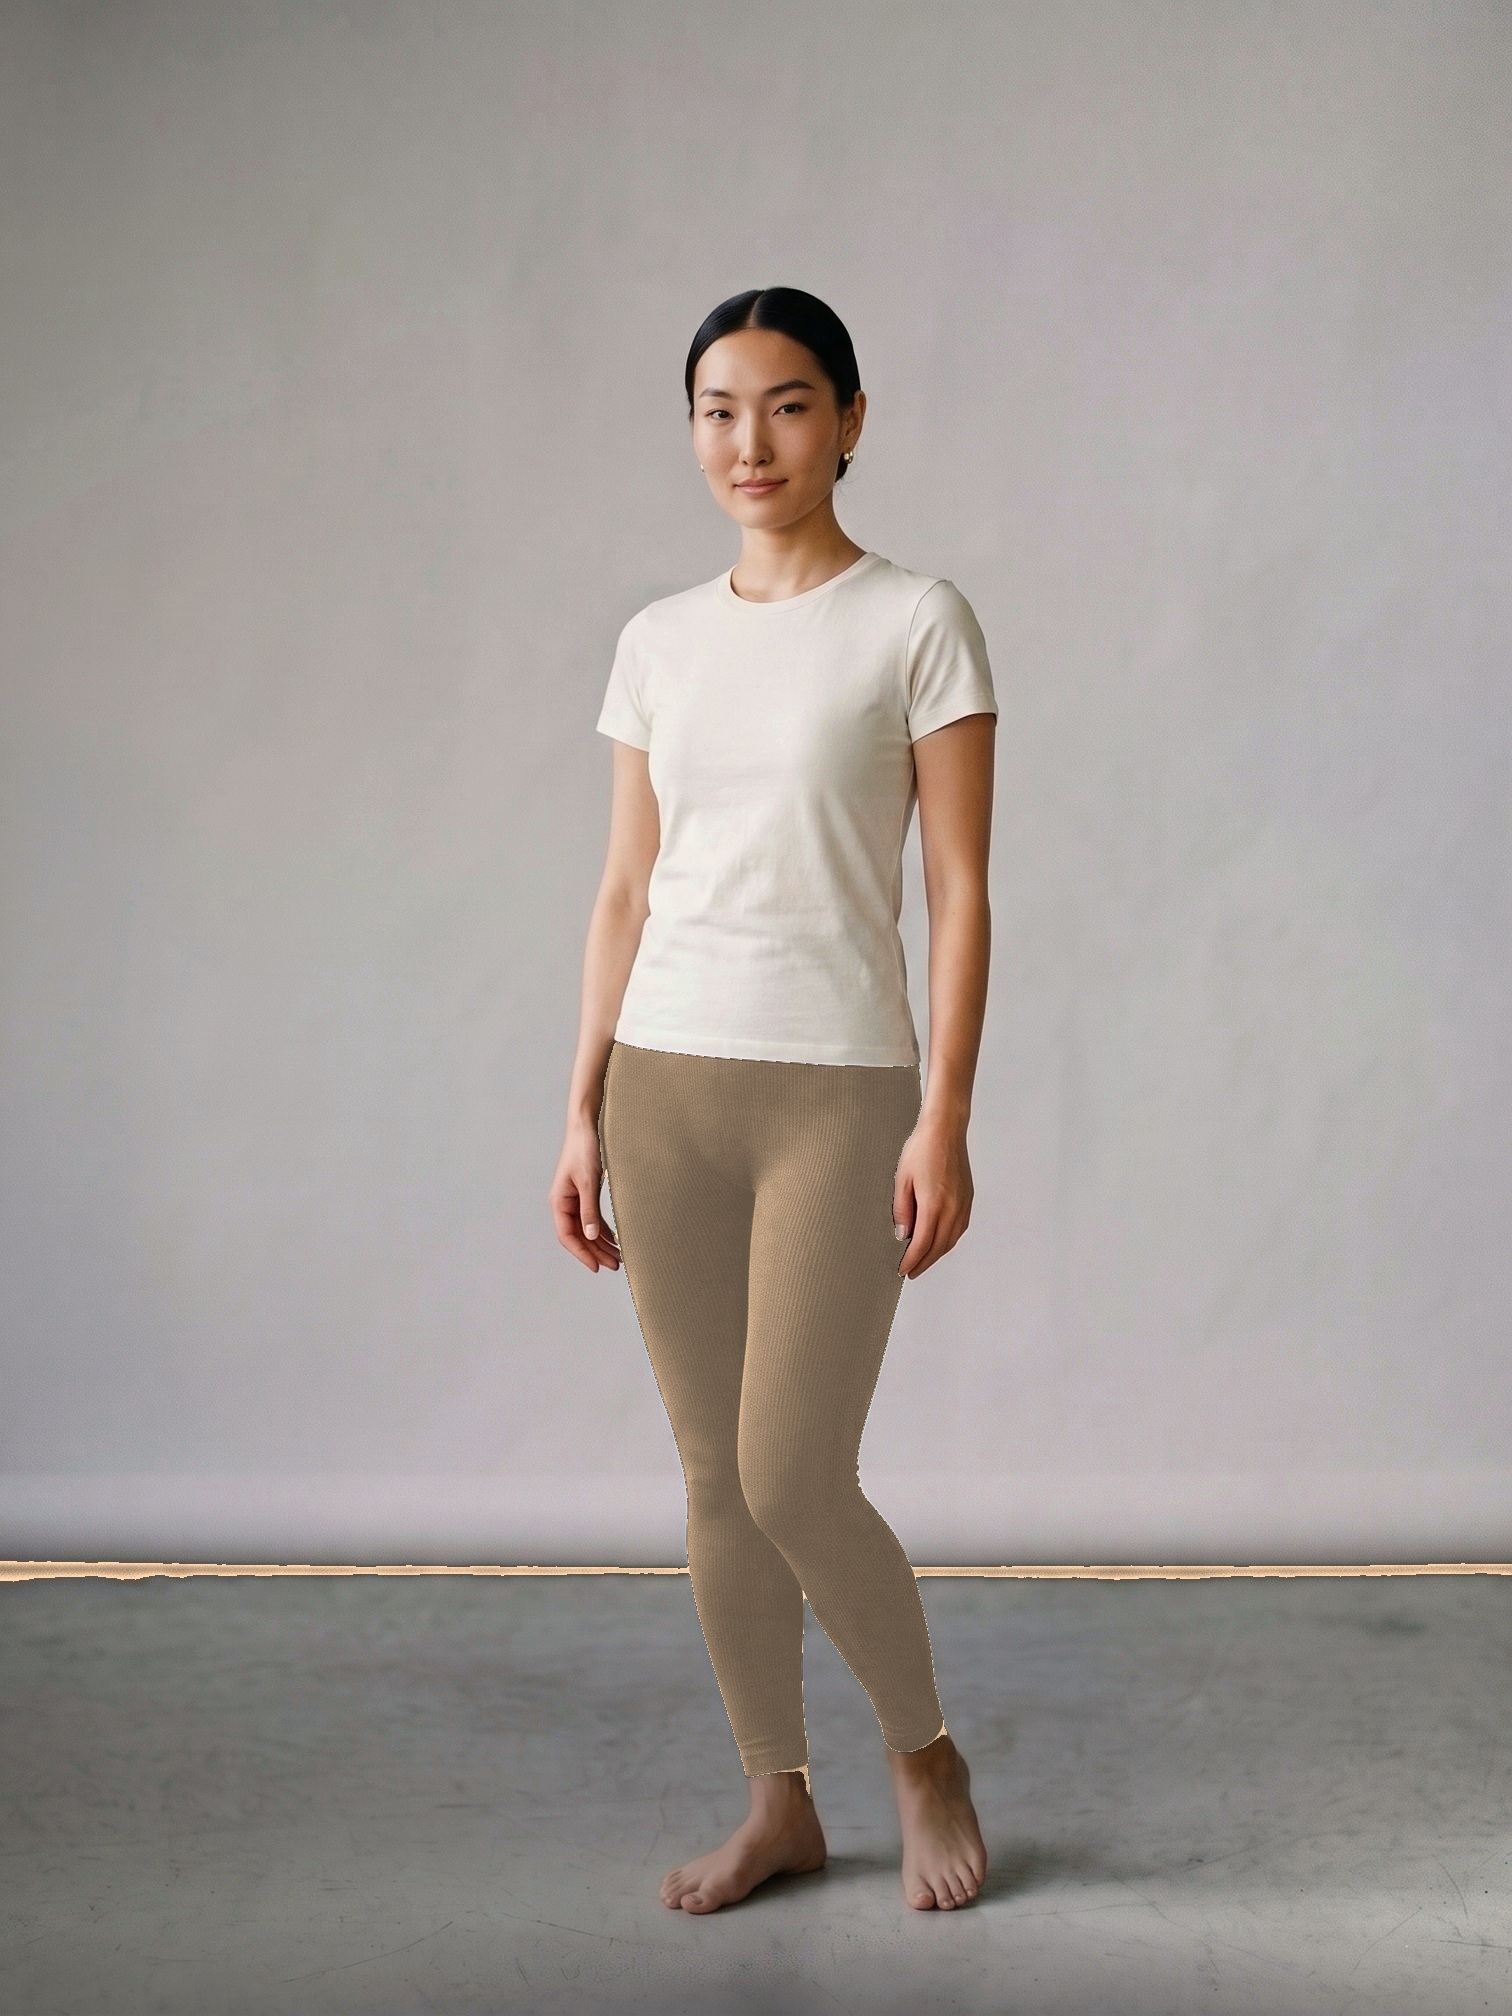
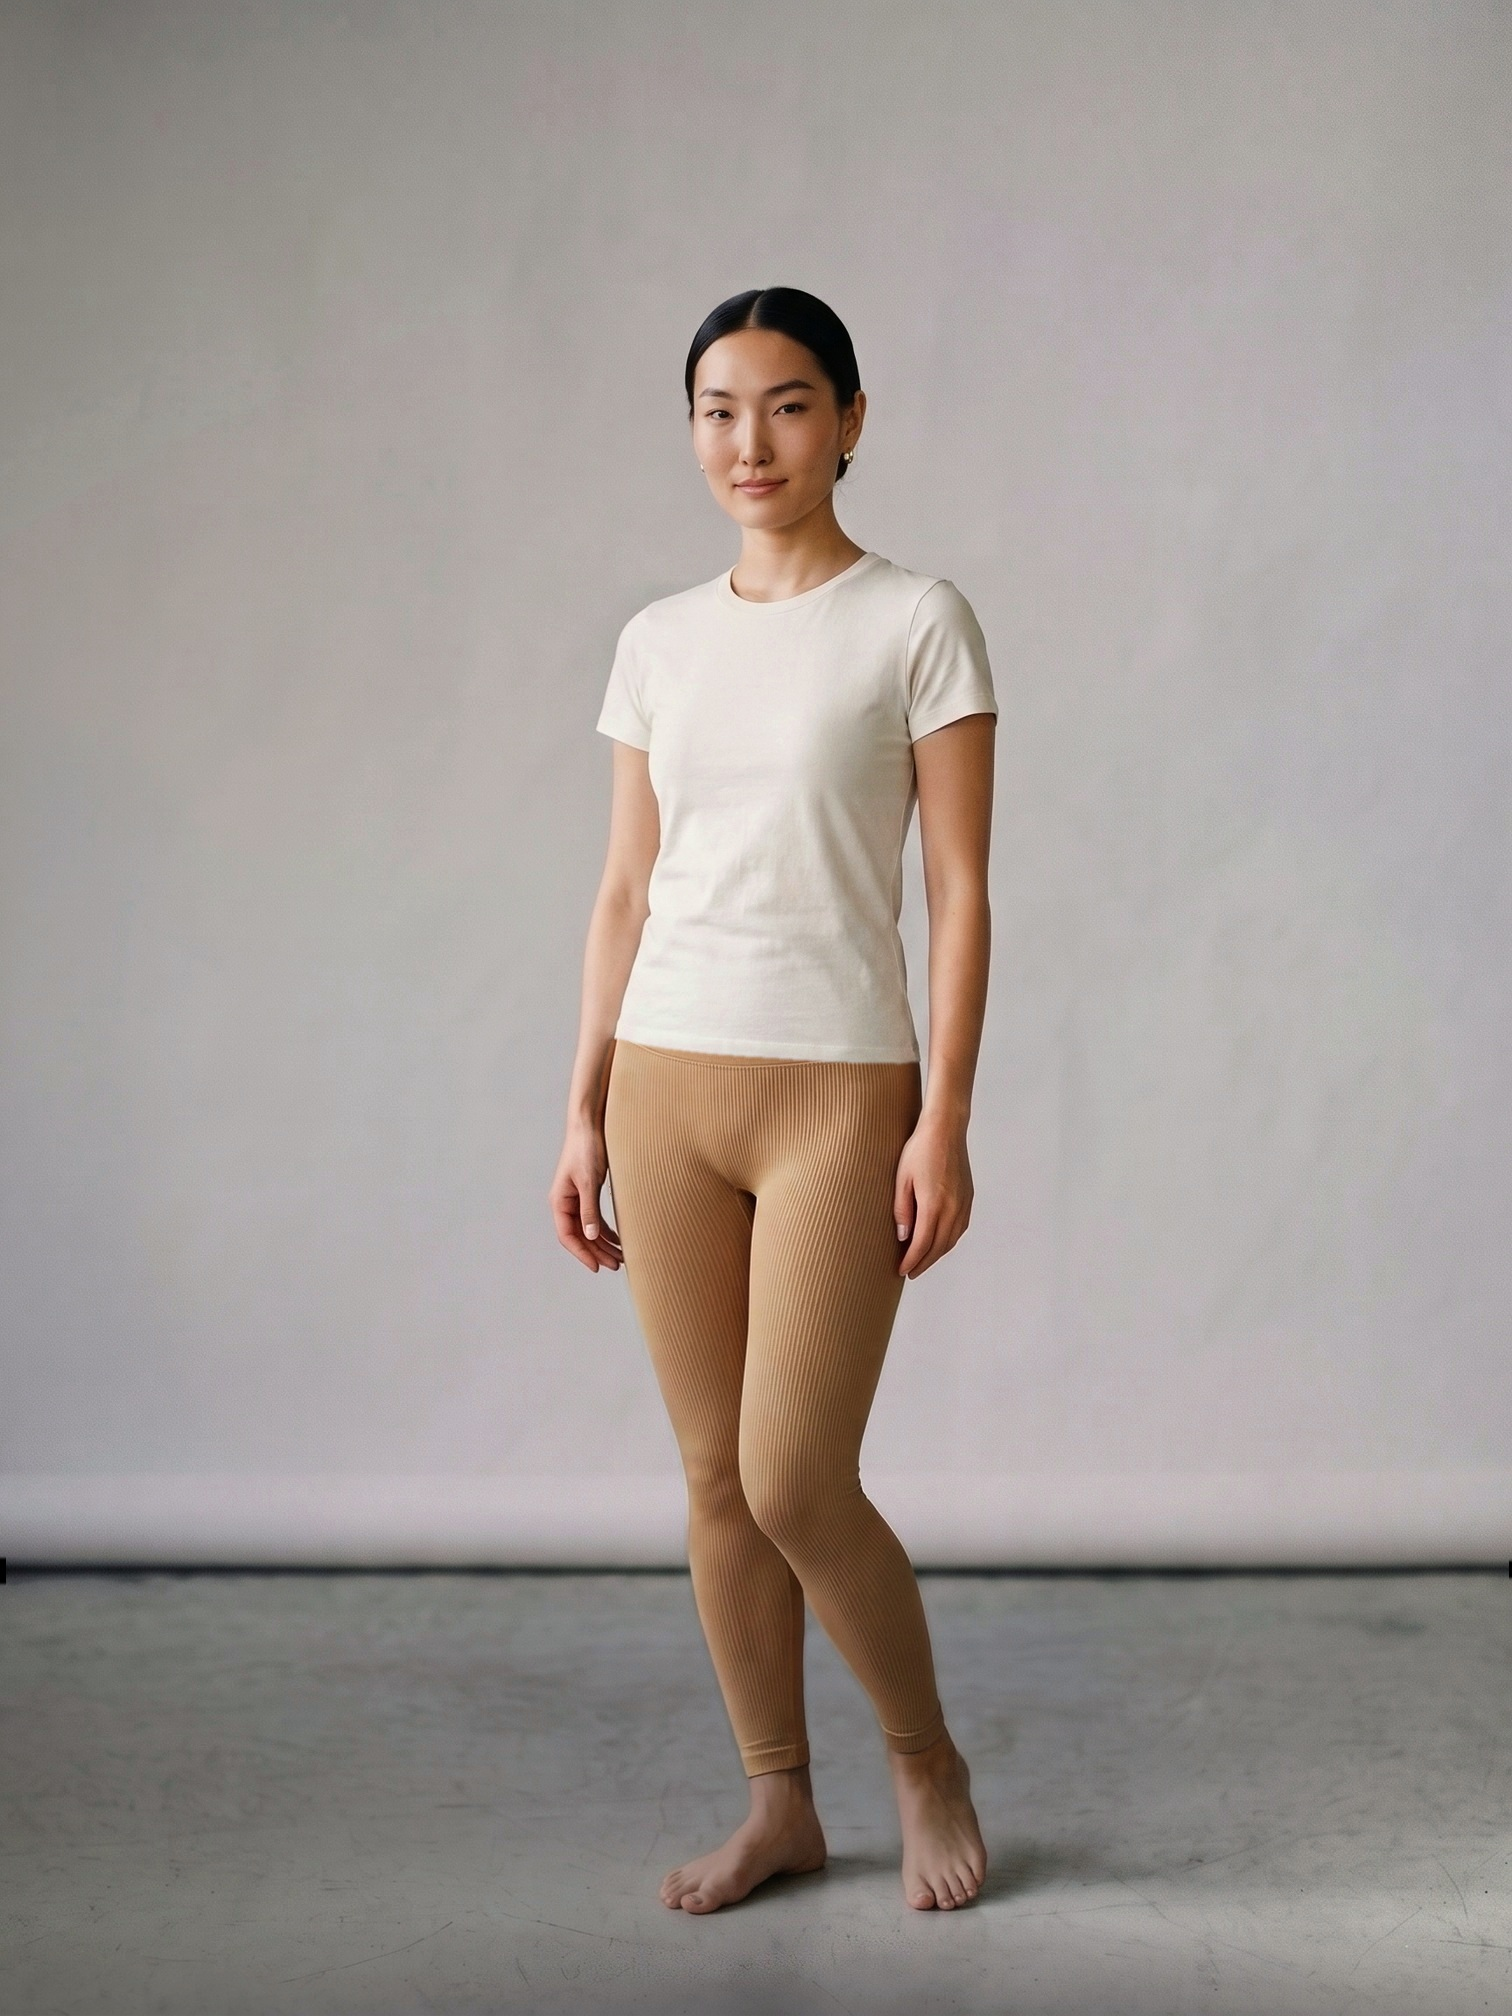
Legging v46: Sand front (hem-clause render on Black base), tucked-tee detail for Black + Sand via colourway_from_edit
Claude-Session: https://claude.ai/code/session_01ARc6ED4zBcLPkxVreURXz5

Changed region(s): [[0.0, 0.5, 1.0, 0.875]]

diff --git a/assets/products.js b/assets/products.js
@@ -79,8 +79,8 @@ window.COVERLINE_PRODUCTS = [
     modelNote: "Shown in size S on our house model (5\'3\"). Product images are AI-generated; the size chart is the supplier\'s real garment measurements.",
     care: "Seamless stretch knit. Machine wash cold, hang or lay flat to dry. Skip the tumble dryer — it\'s what kills the stretch in every pair you\'ve owned before.",
     colors: [
-      { key: "black", label: "Black", hex: "#25272a", image: "/assets/product-images/legging-black.jpg?v=39", images: ["/assets/product-images/legging-black.jpg?v=39", "/assets/product-images/legging-black-proof.jpg?v=39", "/assets/product-images/legging-black-back.jpg?v=39", "/assets/product-images/legging-black-detail.jpg?v=39"] },
-      { key: "nude", label: "Sand", hex: "#c9a888", image: "/assets/product-images/legging-nude.jpg?v=45", images: ["/assets/product-images/legging-nude.jpg?v=45", "/assets/product-images/legging-nude-proof.jpg?v=45", "/assets/product-images/legging-nude-back.jpg?v=45", "/assets/product-images/legging-nude-detail.jpg?v=45"] }
+      { key: "black", label: "Black", hex: "#25272a", image: "/assets/product-images/legging-black.jpg?v=39", images: ["/assets/product-images/legging-black.jpg?v=39", "/assets/product-images/legging-black-proof.jpg?v=39", "/assets/product-images/legging-black-back.jpg?v=39", "/assets/product-images/legging-black-detail.jpg?v=46"] },
+      { key: "nude", label: "Sand", hex: "#c9a888", image: "/assets/product-images/legging-nude.jpg?v=46", images: ["/assets/product-images/legging-nude.jpg?v=46", "/assets/product-images/legging-nude-proof.jpg?v=45", "/assets/product-images/legging-nude-back.jpg?v=45", "/assets/product-images/legging-nude-detail.jpg?v=46"] }
     ],
     image: "/assets/product-images/legging-black.jpg?v=39",
     swatch: function(){ return '<rect width="300" height="400" fill="var(--paper-raised)"/><path d="M0,240 C 100,300 200,200 300,260 L300,400 L0,400 Z" fill="var(--accent-2)" opacity=".5"/><path d="M0,150 C 110,90 190,210 300,160" fill="none" stroke="var(--accent)" stroke-width="1"/>'; }

diff --git a/product.html b/product.html
@@ -75,7 +75,7 @@
   </div>
 </footer>
 
-<script src="/assets/products.js?v=45"></script>
+<script src="/assets/products.js?v=46"></script>
 <script src="/assets/sizecharts.js?v=2"></script>
 <script src="/assets/reviews.js?v=1"></script>
 <script src="/assets/config.js?v=4"></script>

diff --git a/index.html b/index.html
@@ -100,7 +100,7 @@
   </div>
 </footer>
 
-<script src="/assets/products.js?v=45"></script>
+<script src="/assets/products.js?v=46"></script>
 <script src="/assets/config.js?v=4"></script>
 <script src="/assets/cart.js?v=10"></script>
 <script>

diff --git a/review.html b/review.html
@@ -74,7 +74,7 @@
   </div>
 </footer>
 
-<script src="/assets/products.js?v=45"></script>
+<script src="/assets/products.js?v=46"></script>
 <script src="/assets/config.js?v=4"></script>
 <script src="/assets/cart.js?v=10"></script>
 <script>

diff --git a/404.html b/404.html
@@ -46,7 +46,7 @@
   </div>
 </footer>
 
-<script src="/assets/products.js?v=45"></script>
+<script src="/assets/products.js?v=46"></script>
 <script src="/assets/config.js?v=4"></script>
 <script src="/assets/cart.js?v=10"></script>
 </body>

diff --git a/privacy.html b/privacy.html
@@ -85,7 +85,7 @@
   </div>
 </footer>
 
-<script src="/assets/products.js?v=45"></script>
+<script src="/assets/products.js?v=46"></script>
 <script src="/assets/config.js?v=4"></script>
 <script src="/assets/cart.js?v=10"></script>
 </body>

diff --git a/shipping-returns.html b/shipping-returns.html
@@ -78,7 +78,7 @@
   </div>
 </footer>
 
-<script src="/assets/products.js?v=45"></script>
+<script src="/assets/products.js?v=46"></script>
 <script src="/assets/config.js?v=4"></script>
 <script src="/assets/cart.js?v=10"></script>
 </body>

diff --git a/terms.html b/terms.html
@@ -92,7 +92,7 @@
   </div>
 </footer>
 
-<script src="/assets/products.js?v=45"></script>
+<script src="/assets/products.js?v=46"></script>
 <script src="/assets/config.js?v=4"></script>
 <script src="/assets/cart.js?v=10"></script>
 </body>
